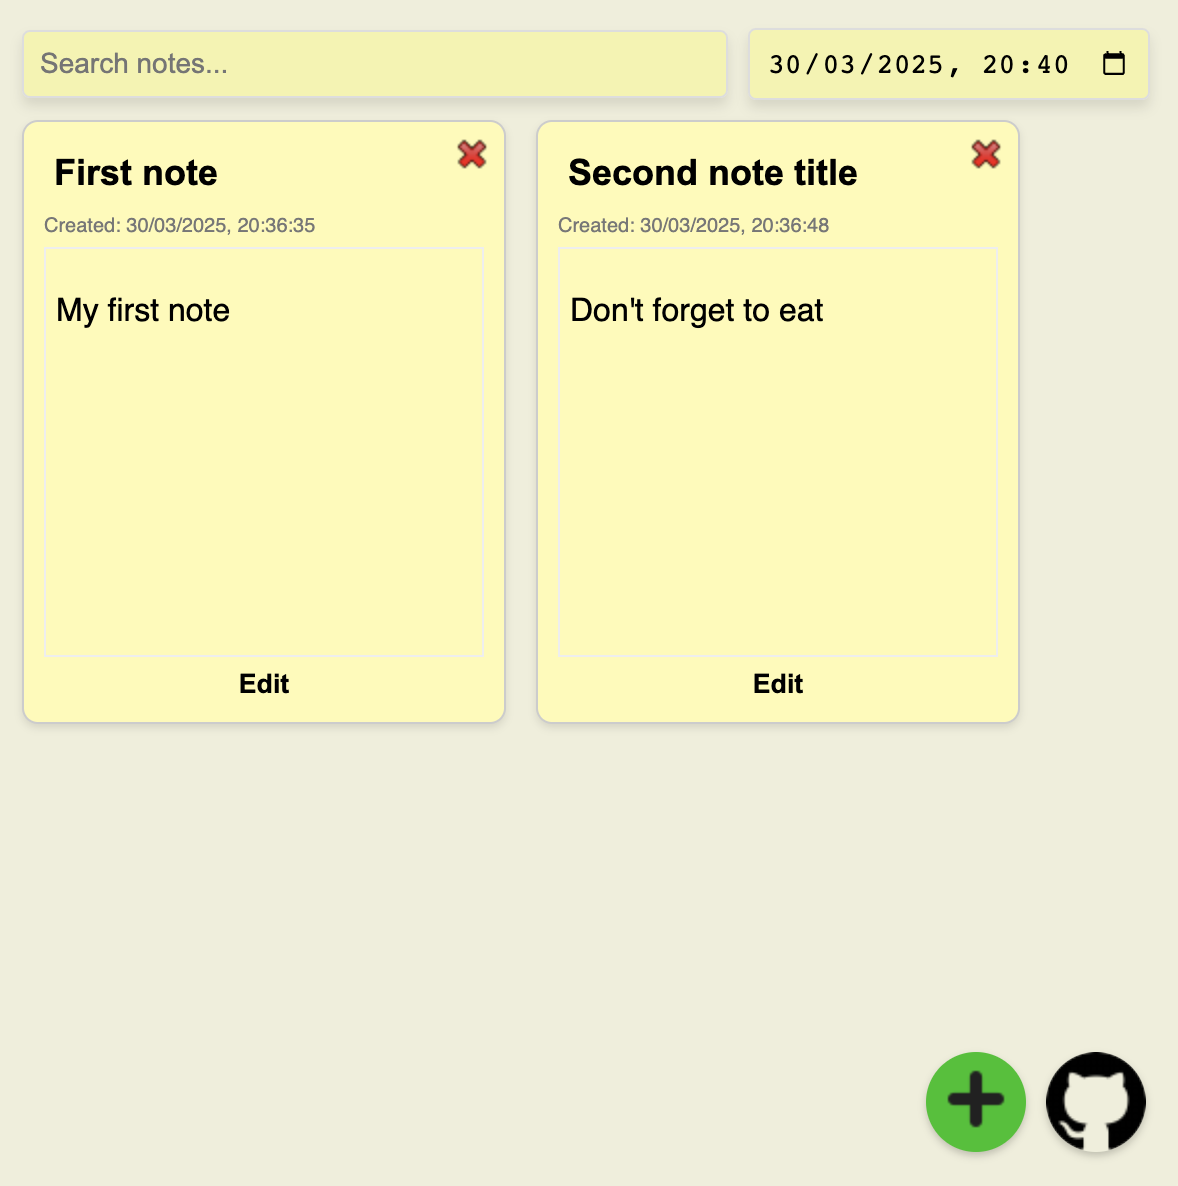
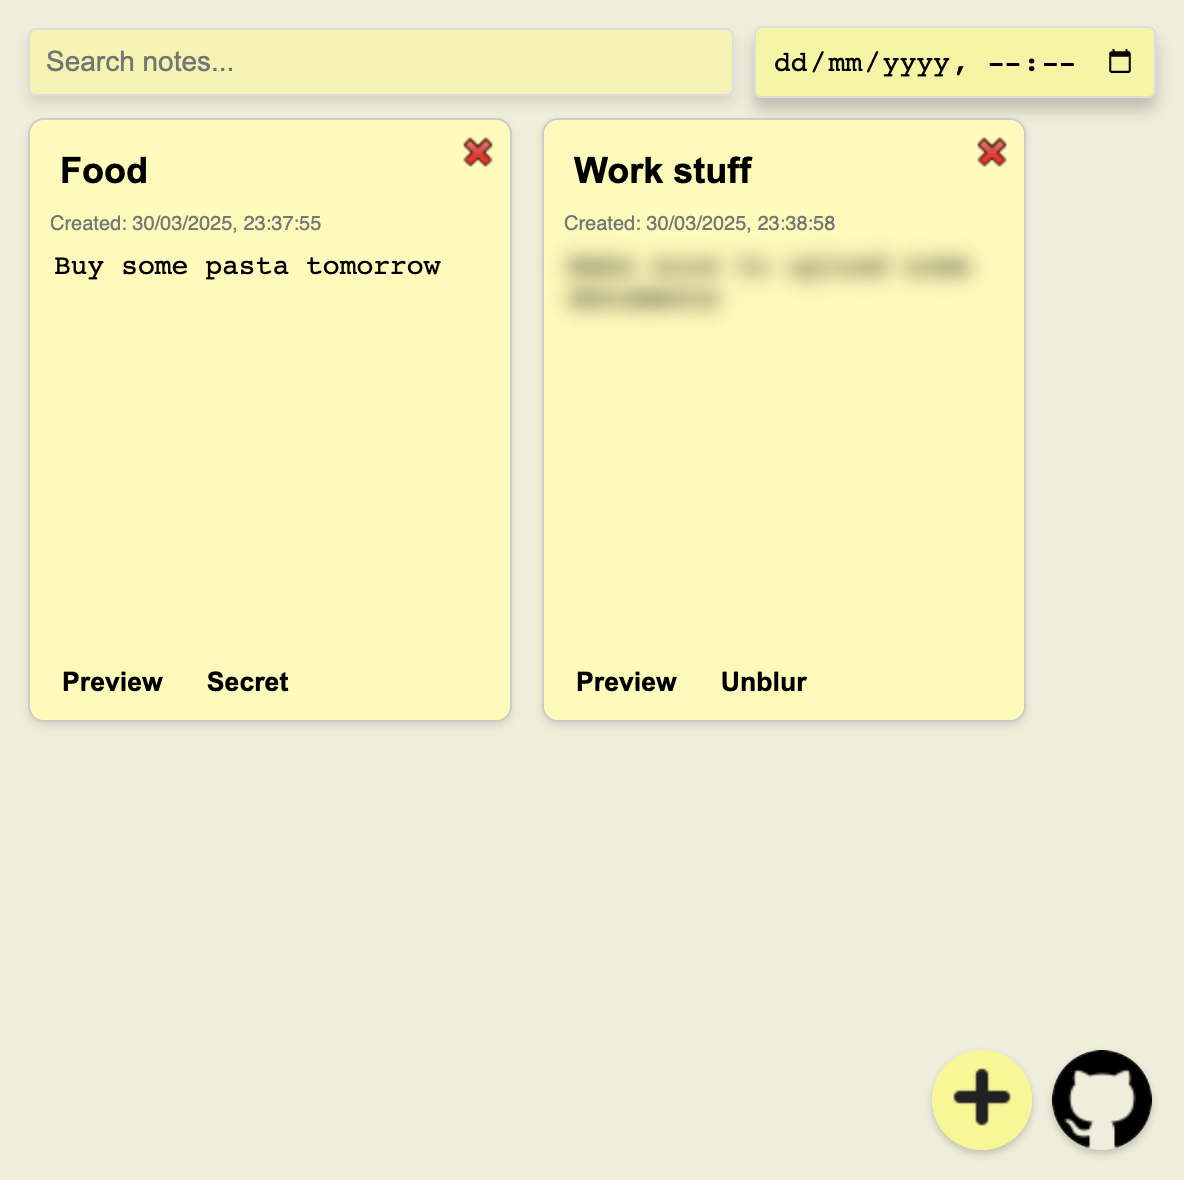
Add blur and change add button color

diff --git a/index.html b/index.html
@@ -155,7 +155,7 @@
         right: 80px; /* Adjusted to make space for GitHub link */
         width: 50px;
         height: 50px;
-        background-color: #03c216;
+        background-color: rgba(255, 255, 0, 0.5);
         border: none;
         border-radius: 50%;
         cursor: pointer;
